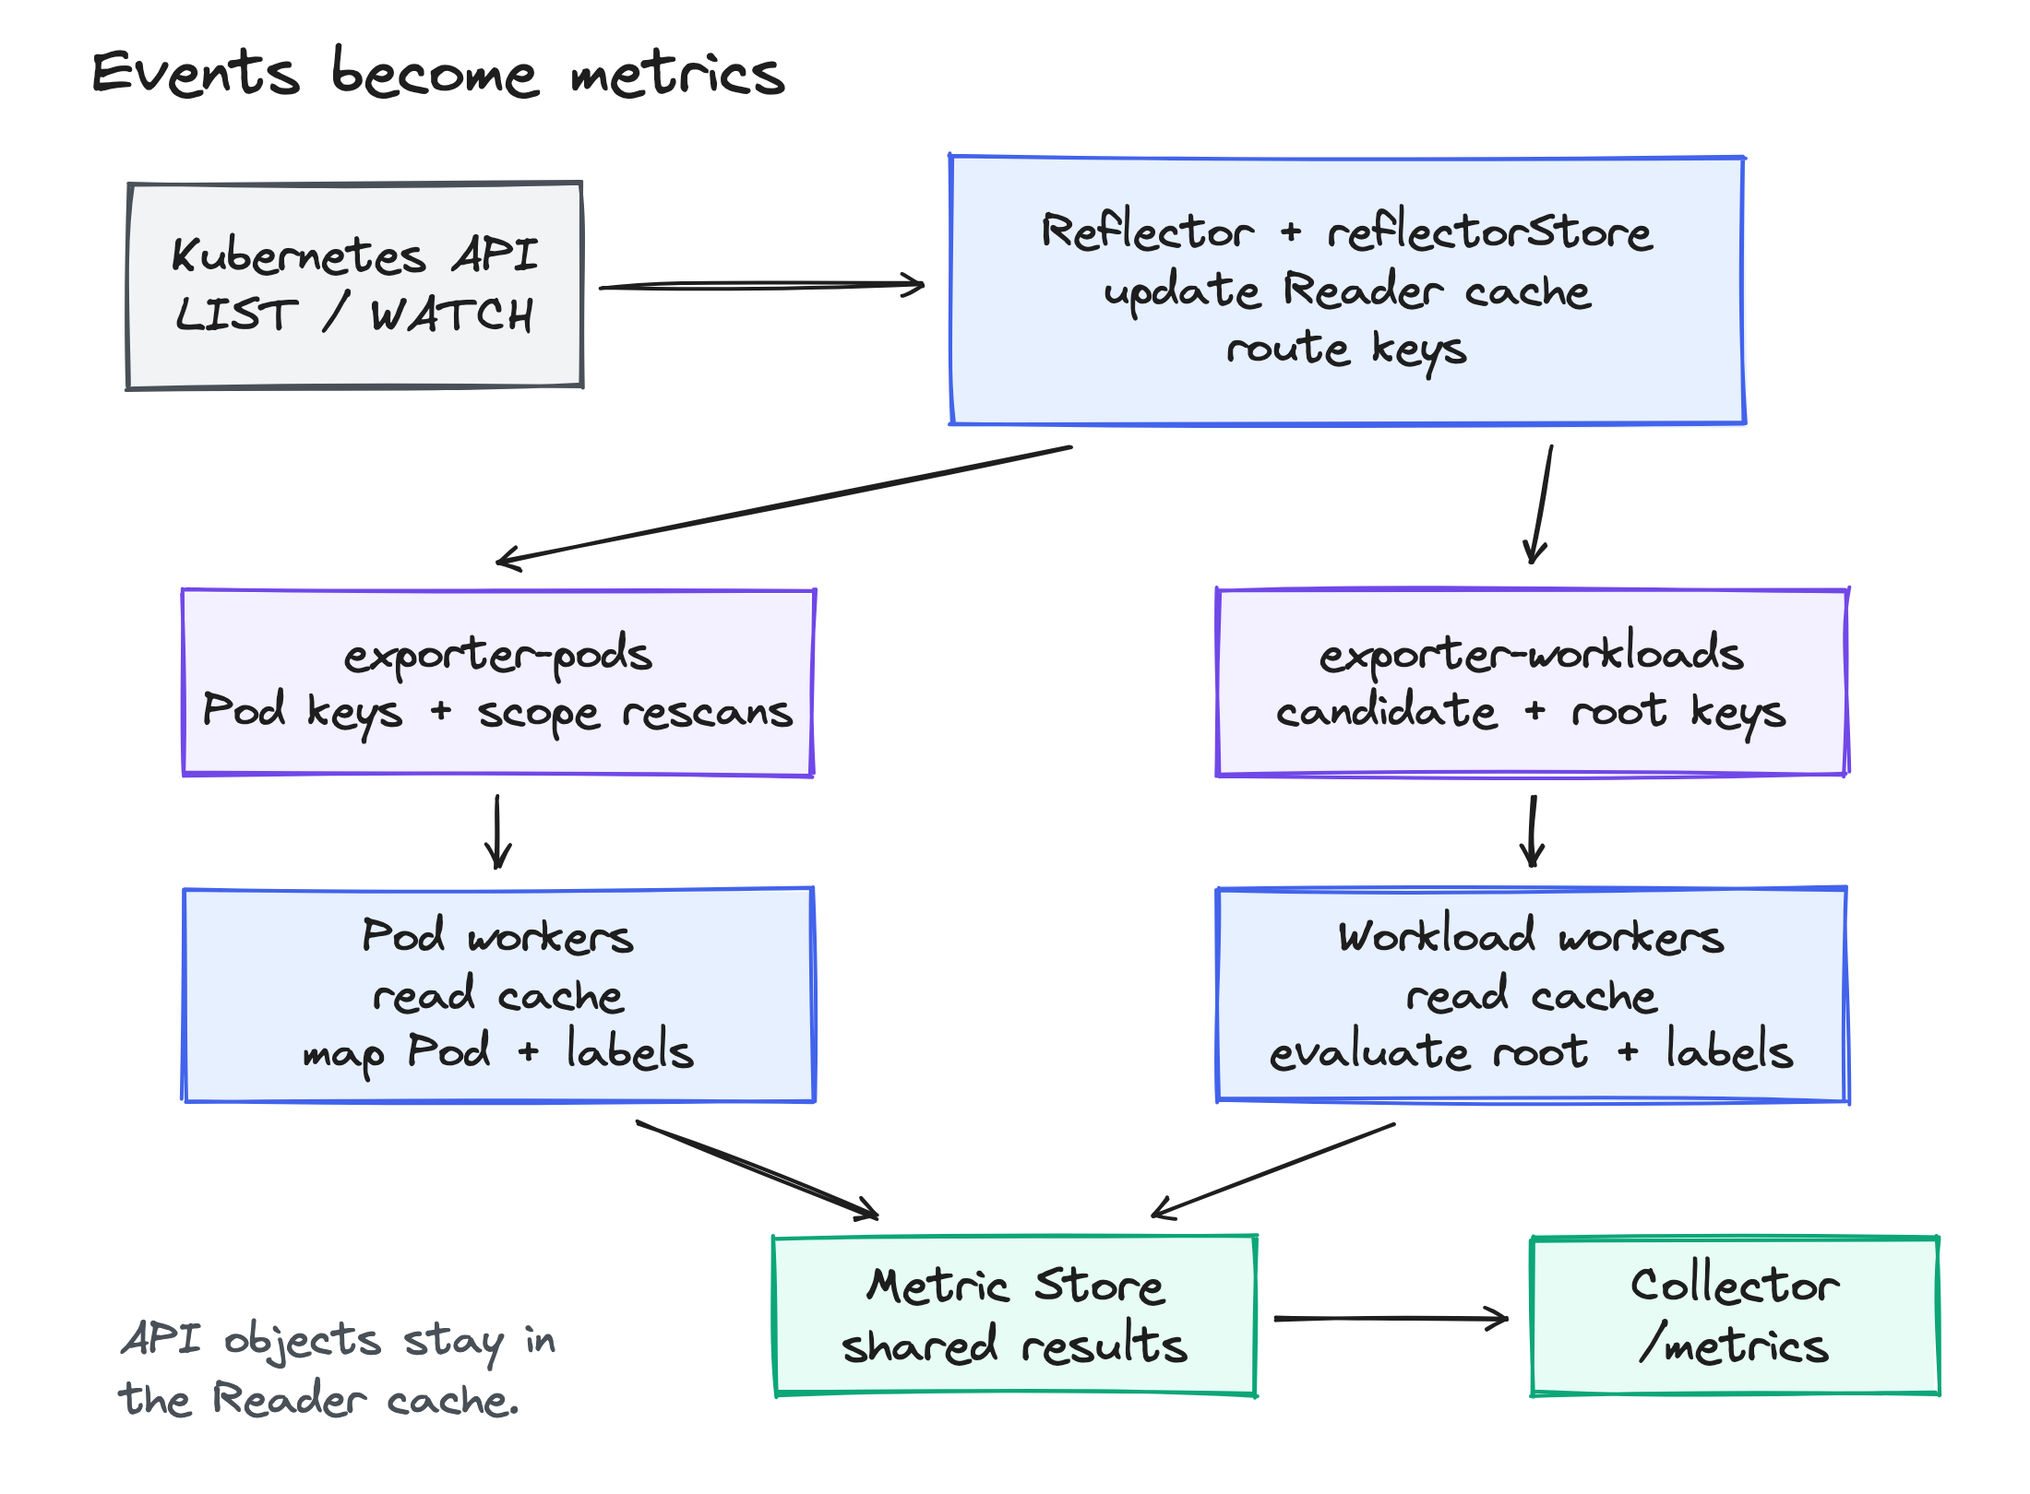
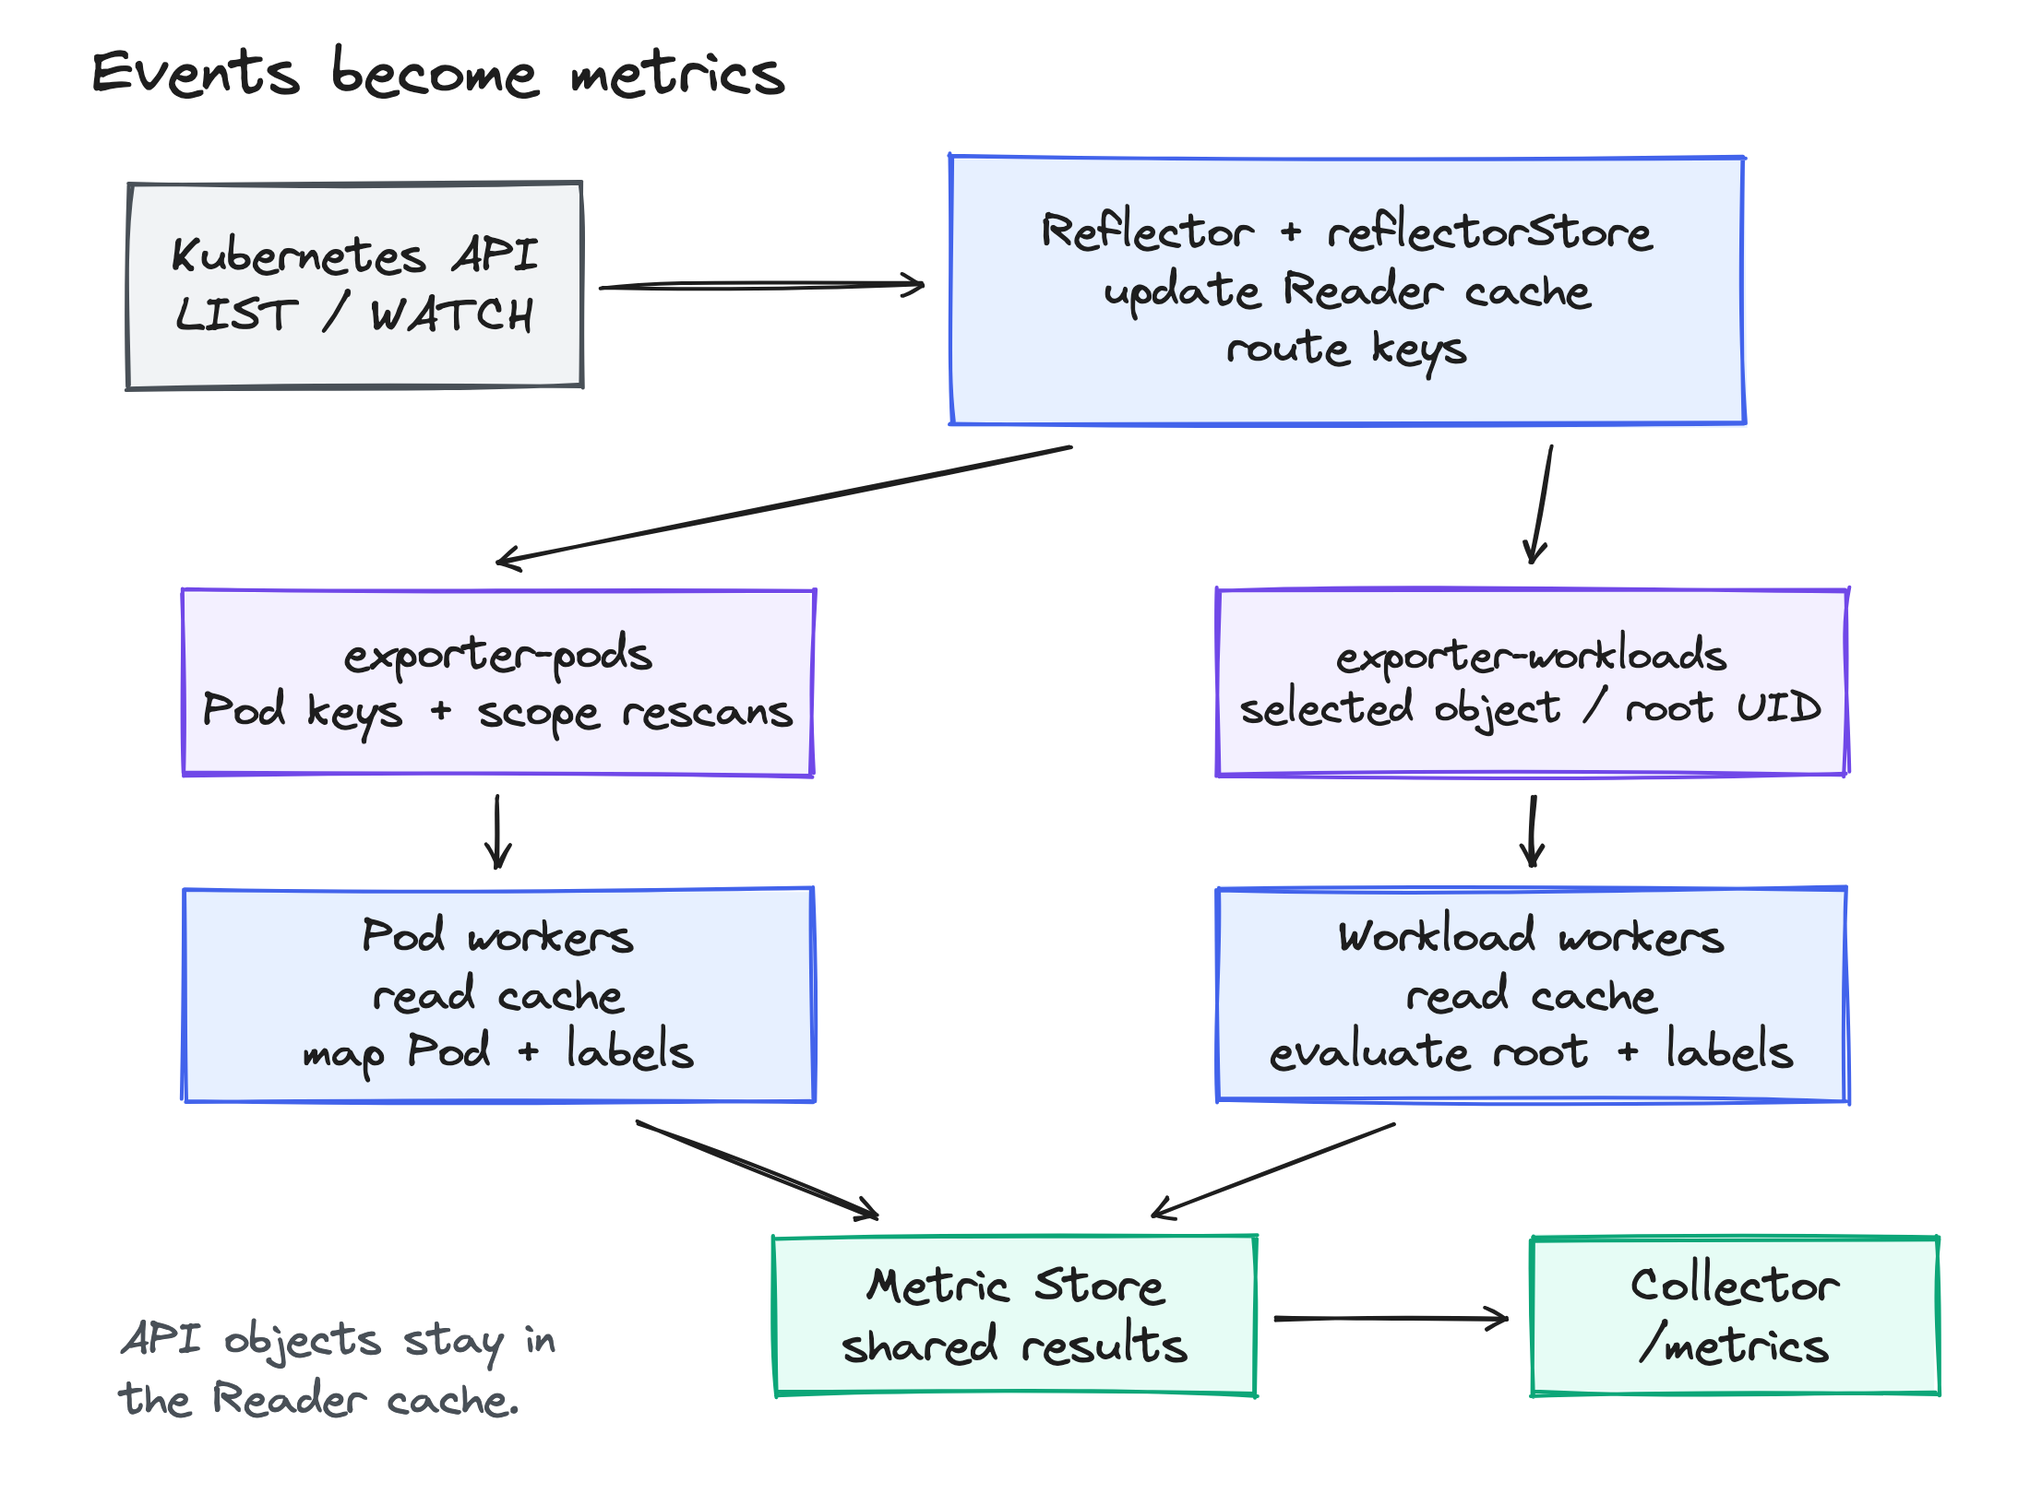
docs(exporter): align controller guide with explicit names

Changed region(s): [[0.6182, 0.4321, 0.8964, 0.4938]]

diff --git a/karta-metrics-exporter/pkg/controller/state.go b/karta-metrics-exporter/pkg/controller/state.go
@@ -193,7 +193,7 @@ func (r *controllerState) registerPodRoot(key objectJobKey, workload *discovery.
 	if !r.isRootLocked(workload.Root) {
 		return discovery.ErrUnresolvedOwner
 	}
-	// Register before reading the root body. Root-event fanout takes this same lock.
+	// Register before reading the root body. Root events use the same lock when queuing members.
 	previous := r.podRoots[key.UID]
 	root := r.ensureRootLocked(workload)
 	if previous != root.ref.UID {

diff --git a/karta-metrics-exporter/pkg/controller/README.md b/karta-metrics-exporter/pkg/controller/README.md
@@ -10,6 +10,8 @@ the root. The Pod result records `web-7 -> web`; a separate workload result
 records the Deployment's status using its Karta definition.
 
 The Pod is the leaf. The workload returned by Discovery is the root.
+Discovery stops at an object with no controller owner, or immediately before
+an owner kind listed in `IgnoredOwnerKinds`.
 The controller keeps Kubernetes objects in a cache, processes changes through
 queues, and saves results for `/metrics`.
 
@@ -47,10 +49,10 @@ A scrape reads the Metric Store. It does not call Kubernetes or evaluate Karta e
 | Queue | Key shape | Handler |
 | --- | --- | --- |
 | `exporter-sources` | String `"sources"` | [`syncWatches`](sources.go#L38) refreshes definitions and namespace scopes, then starts shared watches |
-| `exporter-pods` | `inputKey{Object: objectKey{GVK, Namespace, Name}, UID}` | [`resolveInput`](leaf.go#L24) calls `resolveLeaf` for one Pod |
-| `exporter-pods` | `inputKey{Object: objectKey{Namespace: scope}, Rescan: true}` | `resolveInput` calls [`rescan`](state.go#L236) to requeue cached objects and previous candidates |
-| `exporter-workloads` | `rootKey{Candidate: inputKey{Object, UID}}` | [`resolveWorkload`](root.go#L26) calls `admitRoot` to discover a candidate |
-| `exporter-workloads` | `rootKey{UID: rootUID}` | `resolveWorkload` calls `reconcile` to evaluate an admitted root |
+| `exporter-pods` | `objectJobKey{Object: objectKey{GVK, Namespace, Name}, UID}` | [`handlePodInput`](leaf.go#L24) calls `reconcilePod` for one Pod |
+| `exporter-pods` | `objectJobKey{Object: objectKey{Namespace: scope}, Rescan: true}` | `handlePodInput` calls [`requeueScope`](state.go#L238) to requeue cached objects and previous selected objects |
+| `exporter-workloads` | `workloadJobKey{SelectedObject: objectJobKey{Object, UID}}` | [`handleWorkloadInput`](root.go#L26) calls `resolveSelectedObjectRoot` to discover a selected object |
+| `exporter-workloads` | `workloadJobKey{RootUID: rootUID}` | `handleWorkloadInput` calls `reconcileWorkload` to evaluate a known root |
 
 GVK means group, version and kind. UID is Kubernetes' object identity, distinct
 from its name. Queue keys contain neither resource versions nor object bodies.
@@ -59,7 +61,8 @@ use this scope. With one, `syncWatches` derives admitted scopes from the
 Namespace cache. Cluster-scoped resources still use the empty scope. A rescan
 makes no API request.
 
-The sources queue has one worker. `New` defaults `Workers` to two.
+In `controllerState`, these queues are named `watchSyncQueue`, `podQueue` and
+`workloadQueue`. The sources queue has one worker. `New` defaults `Workers` to two.
 `LeafWorkers` and `RootWorkers` inherit that value unless set explicitly.
 
 Event routing skips leaf work for Pods that do not match the Pod selector.
@@ -70,19 +73,19 @@ key is waiting in the queue.
 
 ### Follow one Pod
 
-The main path is [`resolveLeaf`](leaf.go#L31):
+The main path is [`reconcilePod`](leaf.go#L31):
 
 1. A selected Pod's event updates the object cache and queues the Pod's identity.
 2. A Pod worker reads the latest full Pod object.
 3. Discovery follows controller owner references through the cache:
    `Pod -> ReplicaSet -> Deployment`.
-4. [`admitPod`](state.go#L185) records membership and queues the root before the
+4. [`registerPodRoot`](state.go#L187) records membership and queues the root before the
    worker reads the full Deployment. This lets root events find the Pod while
    its evaluation is in flight.
 5. The Deployment's Karta definition maps the Pod to a component and instance.
    The label resolver receives both the full Pod and the full Deployment.
-6. [`publishPod`](state.go#L216) checks current inputs and saves the Pod result.
-   [`reconcile`](root.go#L99) separately evaluates the full Deployment's status
+6. [`publishPod`](state.go#L218) checks current inputs and saves the Pod result.
+   [`reconcileWorkload`](root.go#L99) separately evaluates the full Deployment's status
    and labels, then calls `publishWorkload`.
 
 A non-Pod root without a Karta definition can still provide creation information
@@ -92,15 +95,20 @@ needs a Pod Karta definition to be included.
 ### How does a workload appear before it has Pods?
 
 Objects whose GVK matches a selected Karta definition enter the workload queue
-as candidates. This means an instance of the selected kind, not the Karta
-custom resource itself. A candidate is an object to discover, not necessarily
-the root. For example, a selected Job owned by a Deployment admits the
-Deployment, even with no Pods and no Deployment definition.
+as selected objects. These are workload objects, not Karta custom resources.
+A selected object is an input to discovery. It may turn out to be the root or
+have an ancestor that is the root. For example, a selected Job owned by a
+Deployment registers the Deployment, even with no Pods and no Deployment
+definition.
 
-[`admitRoot`](root.go#L33) discovers the candidate's owner chain.
-[`admitCandidate`](state.go#L275) records its membership and queues the resulting
-root UID. Only `reconcile` on that UID publishes workload results. Candidate
-keys admit or withdraw membership; they never publish a workload directly.
+[`resolveSelectedObjectRoot`](root.go#L33) discovers the selected object's owner chain.
+[`registerSelectedObjectRoot`](state.go#L277) records its membership and queues the resulting
+root UID. Only `reconcileWorkload` on that UID publishes workload results. Selected object
+keys register or unregister membership; they never publish a workload directly.
+
+`unregisterSelectedObject` removes that object from exporter tracking and clears
+its discovery error. It queues the previous root for reevaluation. It does not
+delete a Kubernetes object or remove still-live Pods from that root.
 
 ## 3. Reflectors: how does the cache stay current?
 
@@ -113,8 +121,8 @@ A collection's group, version and resource form its GVR, such as `apps/v1/deploy
 
 - `LIST` supplies a complete snapshot.
 - `WATCH` supplies later additions, updates and deletions.
-- The controller's [`reflectorStore.Replace`](sources.go#L342) accepts snapshots;
-  `accept` handles individual events. They update the Reader cache and
+- The controller's [`reflectorStore.Replace`](sources.go#L348) accepts snapshots;
+  `applyWatchEvent` handles individual events. They update the Reader cache and
   queue work. They do not calculate metrics.
 - The Reflector reconnects and relists when needed.
 
@@ -133,7 +141,7 @@ requests and context cancellation unblock it.
 | Other ancestors encountered by Discovery | Metadata, unless already watched in full | Follow names, UIDs and owner references |
 
 A full object includes all fields returned by Kubernetes, including metadata,
-spec and status where present. `sourceObject` removes managed fields. If an
+spec and status where present. `prepareWatchObject` removes managed fields. If an
 API rejects metadata requests, the source retries with the dynamic client but
 still strips the result to metadata for a metadata-only watch.
 
@@ -146,7 +154,7 @@ full watch starts. `reflectorStore.Replace` accepts the complete full snapshot
 before canceling the metadata watch. Workers wait and retry instead of
 evaluating metadata as if it were a full object.
 
-[`readLocked`](state.go#L530) rejects unhealthy or unsynchronized sources before
+[`readLocked`](state.go#L533) rejects unhealthy or unsynchronized sources before
 checking object identity. It returns `ErrPending` when a full read has only
 metadata, `ErrStale` for a changed resource version, and NotFound for a
 mismatched UID. Absence is NotFound only when a matching source is healthy
@@ -165,6 +173,7 @@ update the same Deployment's membership.
 cache, source health, selected definitions and Pod/root membership.
 State methods take the lock when they read or change shared state. The handlers
 in `leaf.go` and `root.go` call those methods instead of managing locks themselves.
+Private helpers ending in `Locked` require the caller to hold that lock.
 The Metric Store has its own lock. Reader uses a separate mutex for mapper resets.
 
 ### State maps and snapshots
@@ -175,15 +184,15 @@ The Metric Store has its own lock. Reader uses a separate mutex for mapper reset
 | --- | --- |
 | `objects`, `sources` | Accepted objects by GVK/namespace/name, and their collection health/fullness |
 | `watches`, `replacements`, `watchFailures` | Active watches, full-watch replacements and failed watch requests |
-| `scopes`, `selections` | Admitted namespaces and selected definitions by group/kind |
+| `scopes`, `selectedDefinitions` | Admitted namespaces and selected definitions by group/kind |
 | `podRoots` | Pod UID to root UID |
-| `candidates` | Candidate key to root UID; empty UID means tracked but not yet admitted |
-| `roots` | Root UID to reference, generation, owner resolution, Pod members and candidate members |
+| `selectedObjectRoots` | Selected object key to root UID; empty UID means tracked but not yet resolved |
+| `roots` | Root UID to reference, generation, owner resolution, Pod members and selected object members |
 | `ancestorPods` | Pod UIDs seen as owners, so their ownership changes trigger rescans |
 
-`rootState.candidates` stores each candidate's sources and discovery error.
-[`snapshotRoot`](state.go#L302) combines those into an owned snapshot. One candidate's
-success cannot clear another candidate's error. The snapshot also carries the
+`rootState.selectedObjects` stores each selected object's sources and discovery error.
+[`snapshotRoot`](state.go#L305) combines those into an owned snapshot. One selected object's
+success cannot clear another selected object's error. The snapshot also carries the
 root reference, owner resolution and generation; it exposes no membership maps.
 
 ### Evaluation and publication
@@ -193,7 +202,7 @@ Workers follow three steps:
 1. Read cached objects and take the state snapshots needed for this evaluation.
 2. Run discovery, mapping, status and label evaluation after the state methods
    have released the lock.
-3. [`publishPod`](state.go#L216) or [`publishWorkload`](state.go#L337) locks state again.
+3. [`publishPod`](state.go#L218) or [`publishWorkload`](state.go#L340) locks state again.
    It checks cached UID/resource versions, current definition selection and
    whether the workload is still a root before saving. A mismatch returns
    `ErrStale` for retry. Pod publication checks the whole discovered path and
@@ -215,8 +224,8 @@ copy the whole object cache.
 | --- | --- |
 | Pod changes | That Pod, if selected, previously selected, or needing cleanup |
 | Known root changes | The root and its associated Pods |
-| An intermediate owner changes ownership | One scope-rescan item; it requeues cached Pods and candidates |
-| Inventory reports a definition change | Refresh sources; requeue affected candidates, roots, their Pods and unresolved Pods |
+| An intermediate owner changes ownership | One scope-rescan item; it requeues cached Pods and selected objects |
+| Inventory reports a definition change | Refresh sources; requeue affected selected objects, roots, their Pods and unresolved Pods |
 | A source recovers | A scope rescan and root evaluations |
 
 For example, a ReplicaSet can gain a different Deployment owner while its Pods
@@ -230,13 +239,14 @@ affected kinds, members and unresolved Pods.
 
 Removing a definition triggers reevaluation using Inventory's new selection,
 including any fallback. If no definition remains, objects of that kind stop
-admitting roots as candidates. A non-Pod root can still remain through its
+registering roots from selected objects. A non-Pod root can still remain through its
 Pods, with ownership and creation information but no Karta-derived status or
 component mapping.
 
-If a definition selects a different API version, [`replaceCandidate`](state.go#L261)
-queues its candidate and waits for admission before removing the old
-membership. Confirmed absence in the new version removes the old candidate.
+If a definition selects a different API version, [`replaceSelectedObjectTracking`](state.go#L263)
+queues the object in the new version and waits for its root registration before
+removing the old registration. Confirmed absence in the new version removes
+only the old exporter registration.
 
 ## 6. Errors, retries and cleanup
 
@@ -248,7 +258,7 @@ Pod evaluation and invalid-definition failures are saved by `failPodLocked`
 without a timed retry. Workload status failures are saved by `publishWorkload`.
 Changed inputs cause another evaluation.
 
-[`failPodLocked`](state.go#L461) and `failWorkload` retain any previous successful
+[`failPodLocked`](state.go#L464) and `failWorkload` retain any previous successful
 record and attach the current error. Publication also preserves previous values
 when label or status evaluation fails. The collector combines saved errors
 with current source health, so retained values are not reported as fresh success.
@@ -264,18 +274,19 @@ error can be attributed to that workload without emitting a mapping value.
 
 ### Deletion is different from a failed read
 
-- Confirmed Pod deletion calls [`removePod`](state.go#L121), removing its mapping
+- Confirmed Pod deletion calls [`unregisterPod`](state.go#L123), removing its mapping
   and membership. Leaving the Pod selector or admitted namespace also removes it.
-- Confirmed root deletion calls [`withdrawWorkload`](state.go#L322), removing the
-  workload result and requeuing its Pods and candidates. It does not delete
-  still-live Pods' mapping results. Their next failed discovery retains the
-  last successful mapping with an unresolved-owner error. A new root with the
+- Confirmed root deletion calls [`withdrawWorkload`](state.go#L325), removing the
+  workload result and requeuing its Pods and selected objects. The ownership
+  maps remain until those workers move or remove their registrations. It does
+  not delete still-live Pods' mapping results. Their next failed discovery
+  retains the last successful mapping with an unresolved-owner error. A new root with the
   same name cannot satisfy an owner reference to the old UID.
 - A root that gains a non-ignored controller owner is also withdrawn. Its
   members rediscover the new root. Removing the last member lets `snapshotRoot`
   remove the old root entry and result.
 - Failed or malformed lists do not erase accepted objects. `Replace` validates
-  the whole snapshot before treating absence as deletion. `accept` ignores
+  the whole snapshot before treating absence as deletion. `applyWatchEvent` ignores
   deletion events whose UID does not match the cached object.
 - Namespace removal makes `syncWatches` retire that scope's watches and failed
   requests. Retirement routes cached removals through the same queues. Late
@@ -293,7 +304,7 @@ detailed result and source-health rules.
 | [sources.go](sources.go) | Start Reflectors, accept LIST/WATCH results and route changes to queues |
 | [reader.go](reader.go) | Read cached objects and check their identities and source health |
 | [leaf.go](leaf.go) | Discover a Pod's root and save its mapping; handle scope rescans |
-| [root.go](root.go) | Discover candidate roots and save workload status and labels |
+| [root.go](root.go) | Discover selected objects and save workload status and labels |
 
 Diagram sources: [startup](images/startup.excalidraw),
 [runtime](images/runtime.excalidraw), [reflector](images/reflector.excalidraw),
